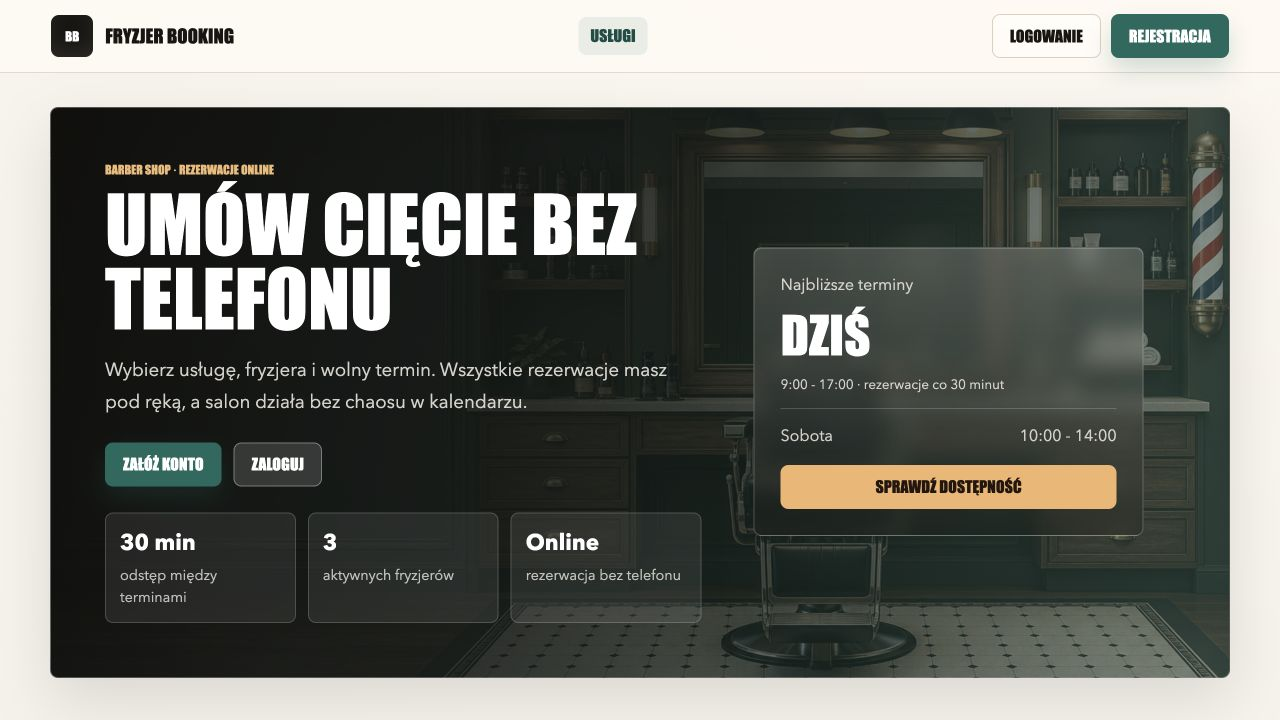
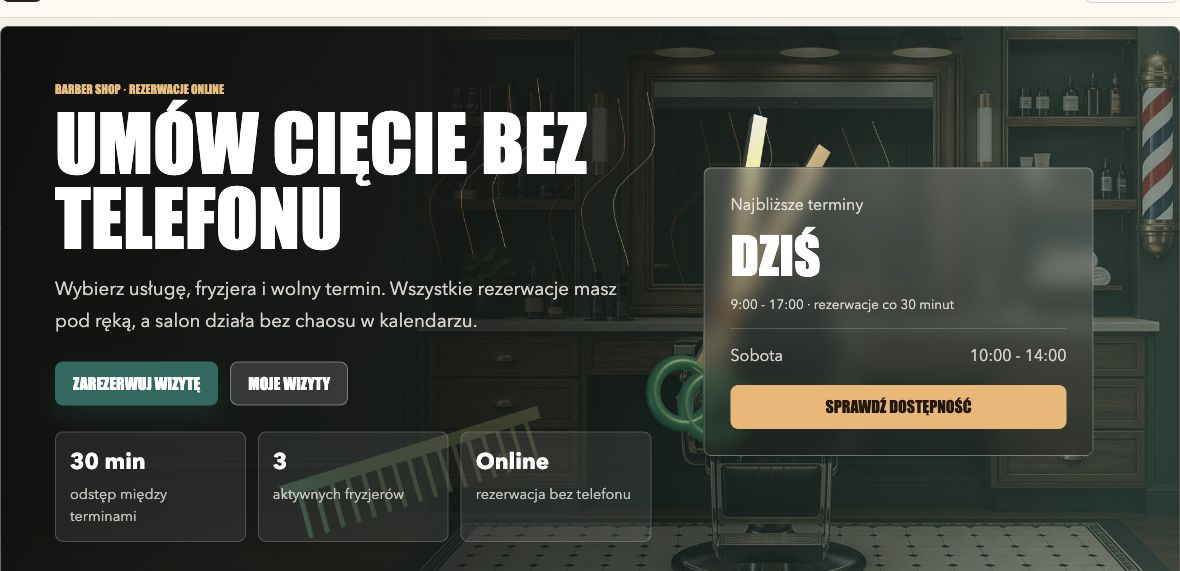
Refresh README application screenshots

diff --git a/README.md b/README.md
@@ -11,7 +11,7 @@ System rezerwacji wizyt dla barber shopu z panelem klienta, logowaniem, dostępn
 
 ### Strona Główna
 
-![Strona główna aplikacji Fryzjer Booking](docs/screenshots/strona-glowna.jpg)
+![Strona główna aplikacji Fryzjer Booking z interaktywną sceną 3D](docs/screenshots/strona-glowna.jpg)
 
 ### Rezerwacja Wizyty
 